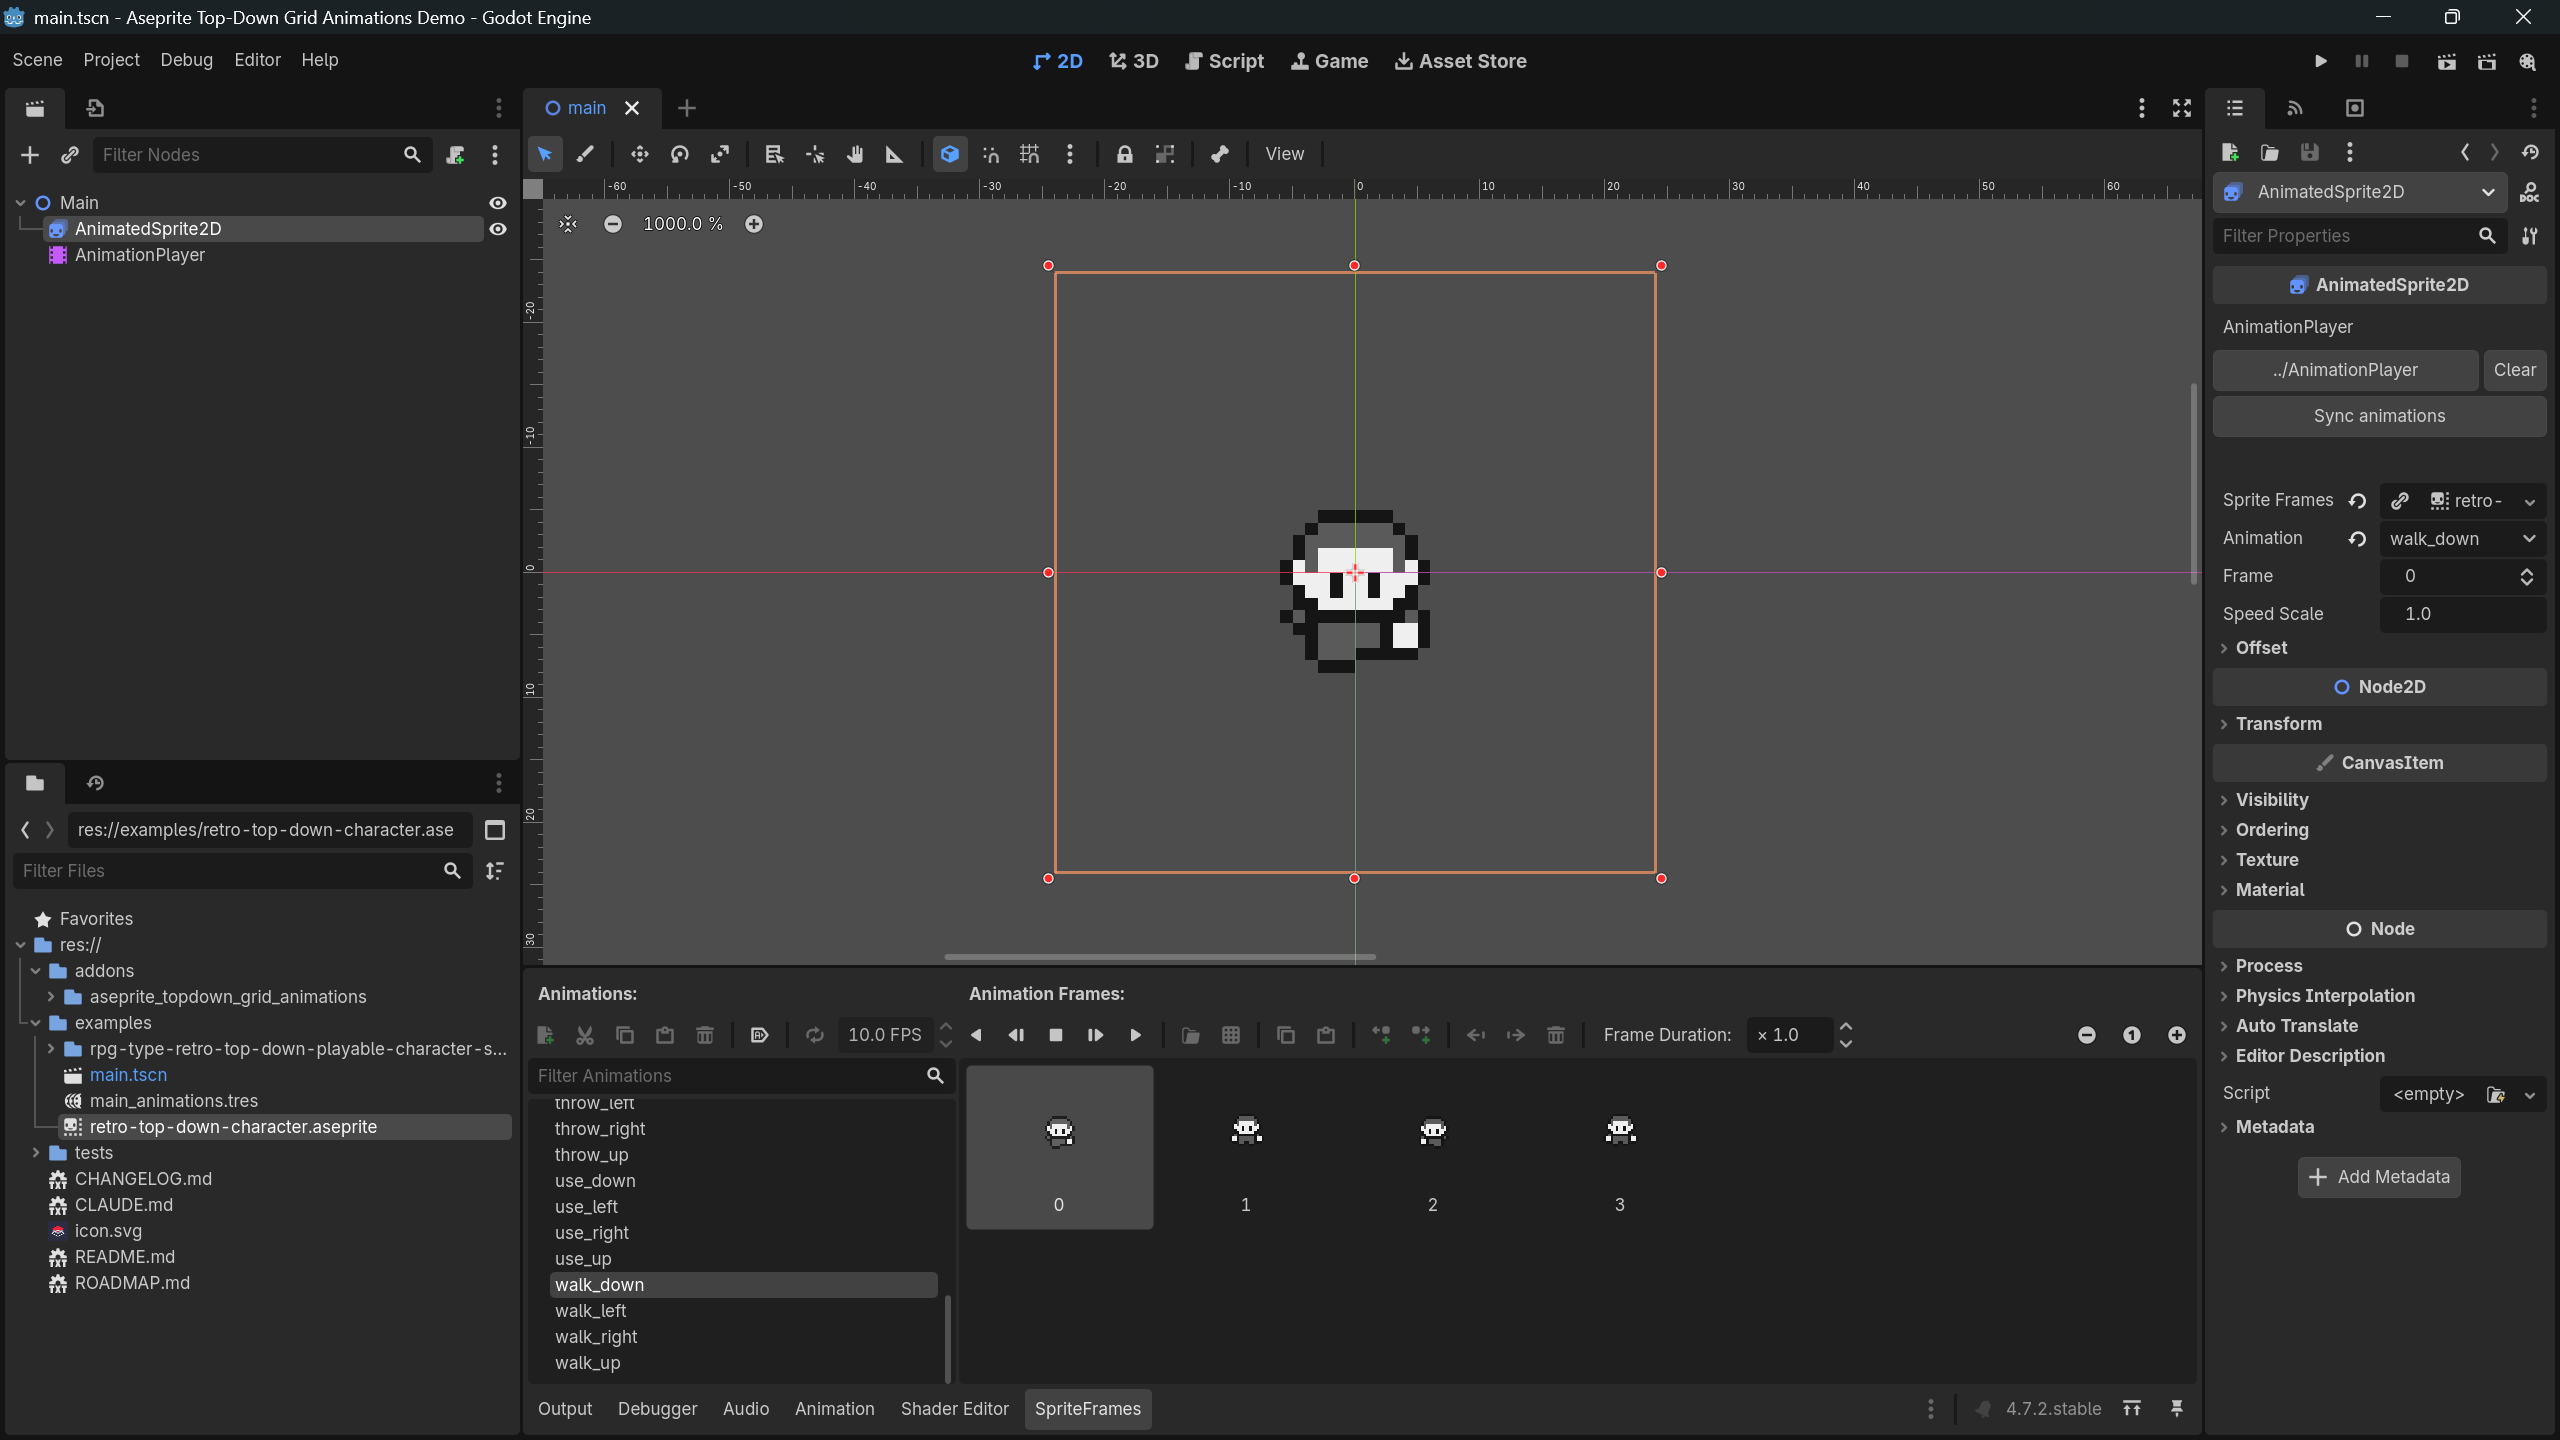
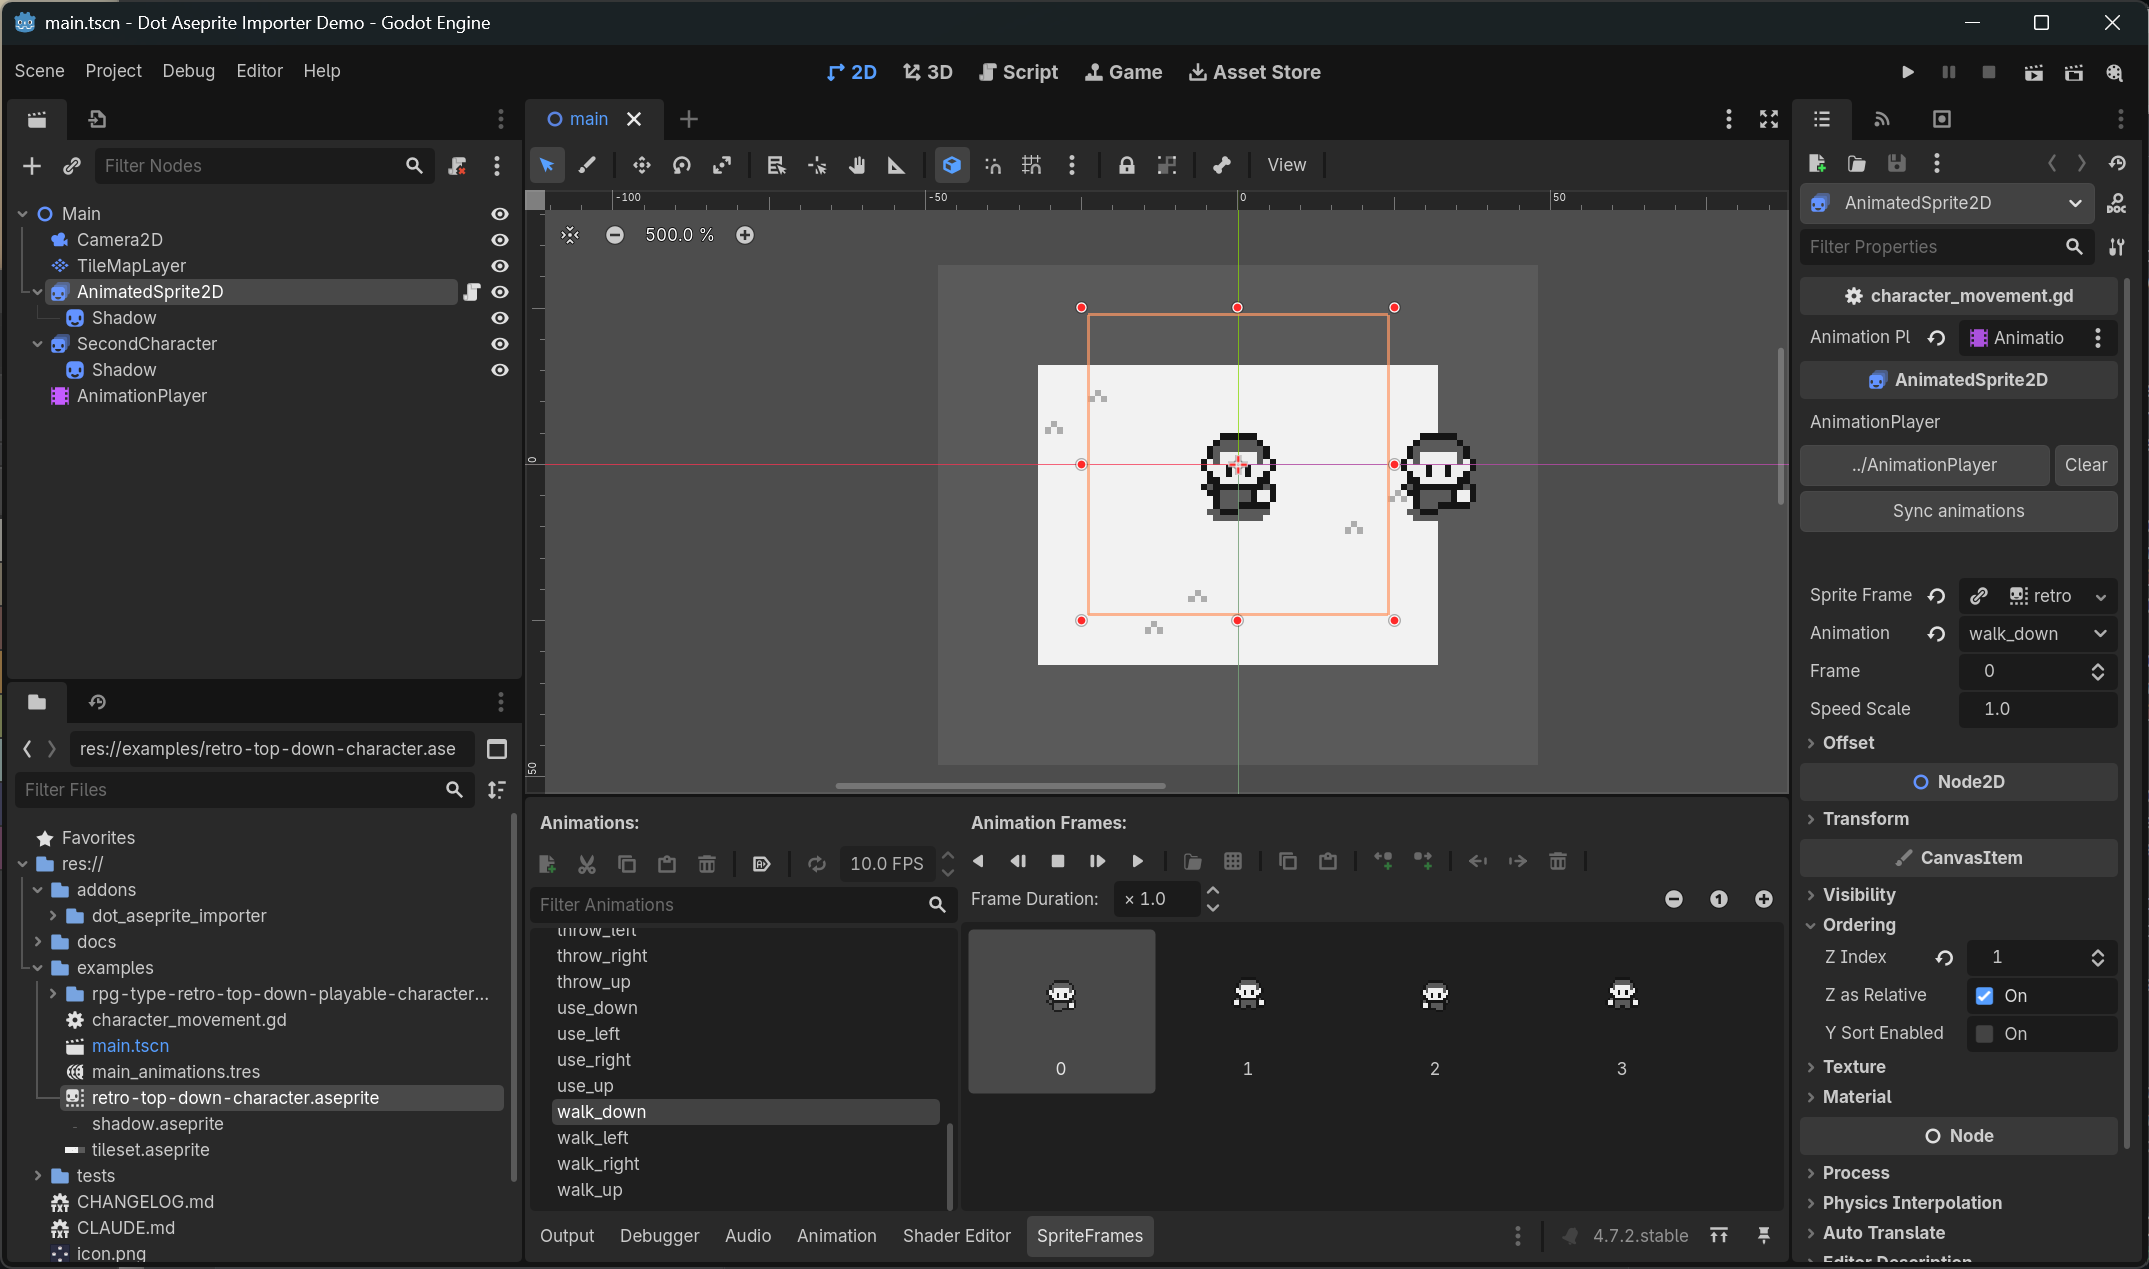
docs: retake the editor screenshot with the new name
The window title and the addon folder in the old one still said Aseprite Top-Down Grid Animations. The manual test of the rename and of the none default passed in the editor.

diff --git a/ROADMAP.md b/ROADMAP.md
@@ -76,12 +76,12 @@
       format bump to 3, the character does not move against its shadow, `flip_h` does not shift
       it, every frame shows 48x48 in the SpriteFrames panel, *Draw Calls* as before, and the layer
       dropdown lists the layers with the executable path cleared
-- [ ] Manual test in the editor of the rename and of `grid/directions` = `none` by default: the
+- [x] Manual test in the editor of the rename and of `grid/directions` = `none` by default: the
       plugin, the importers in *Import As*, the settings sections and the Tools item carry the new
       names; a new `.aseprite` imports with `none`; *Project Settings > Import Defaults* lists
       *Dot Aseprite SpriteFrames*, and `3x3` saved there makes the next new file a grid; the
-      example opens without a sync and animates as before. Retake `screenshots/godot-editor.png`,
-      which shows the old names
+      example opens without a sync and animates as before; `screenshots/godot-editor.png` retaken
+      with the new names
 - [ ] Rename the GitHub repository to `dot-aseprite-importer` and the local folder to match
 - [ ] Icon: the Aseprite face with an element of its own, like the other Aseprite addons do
 - [ ] Make the repository public and tag `v0.1.0`
